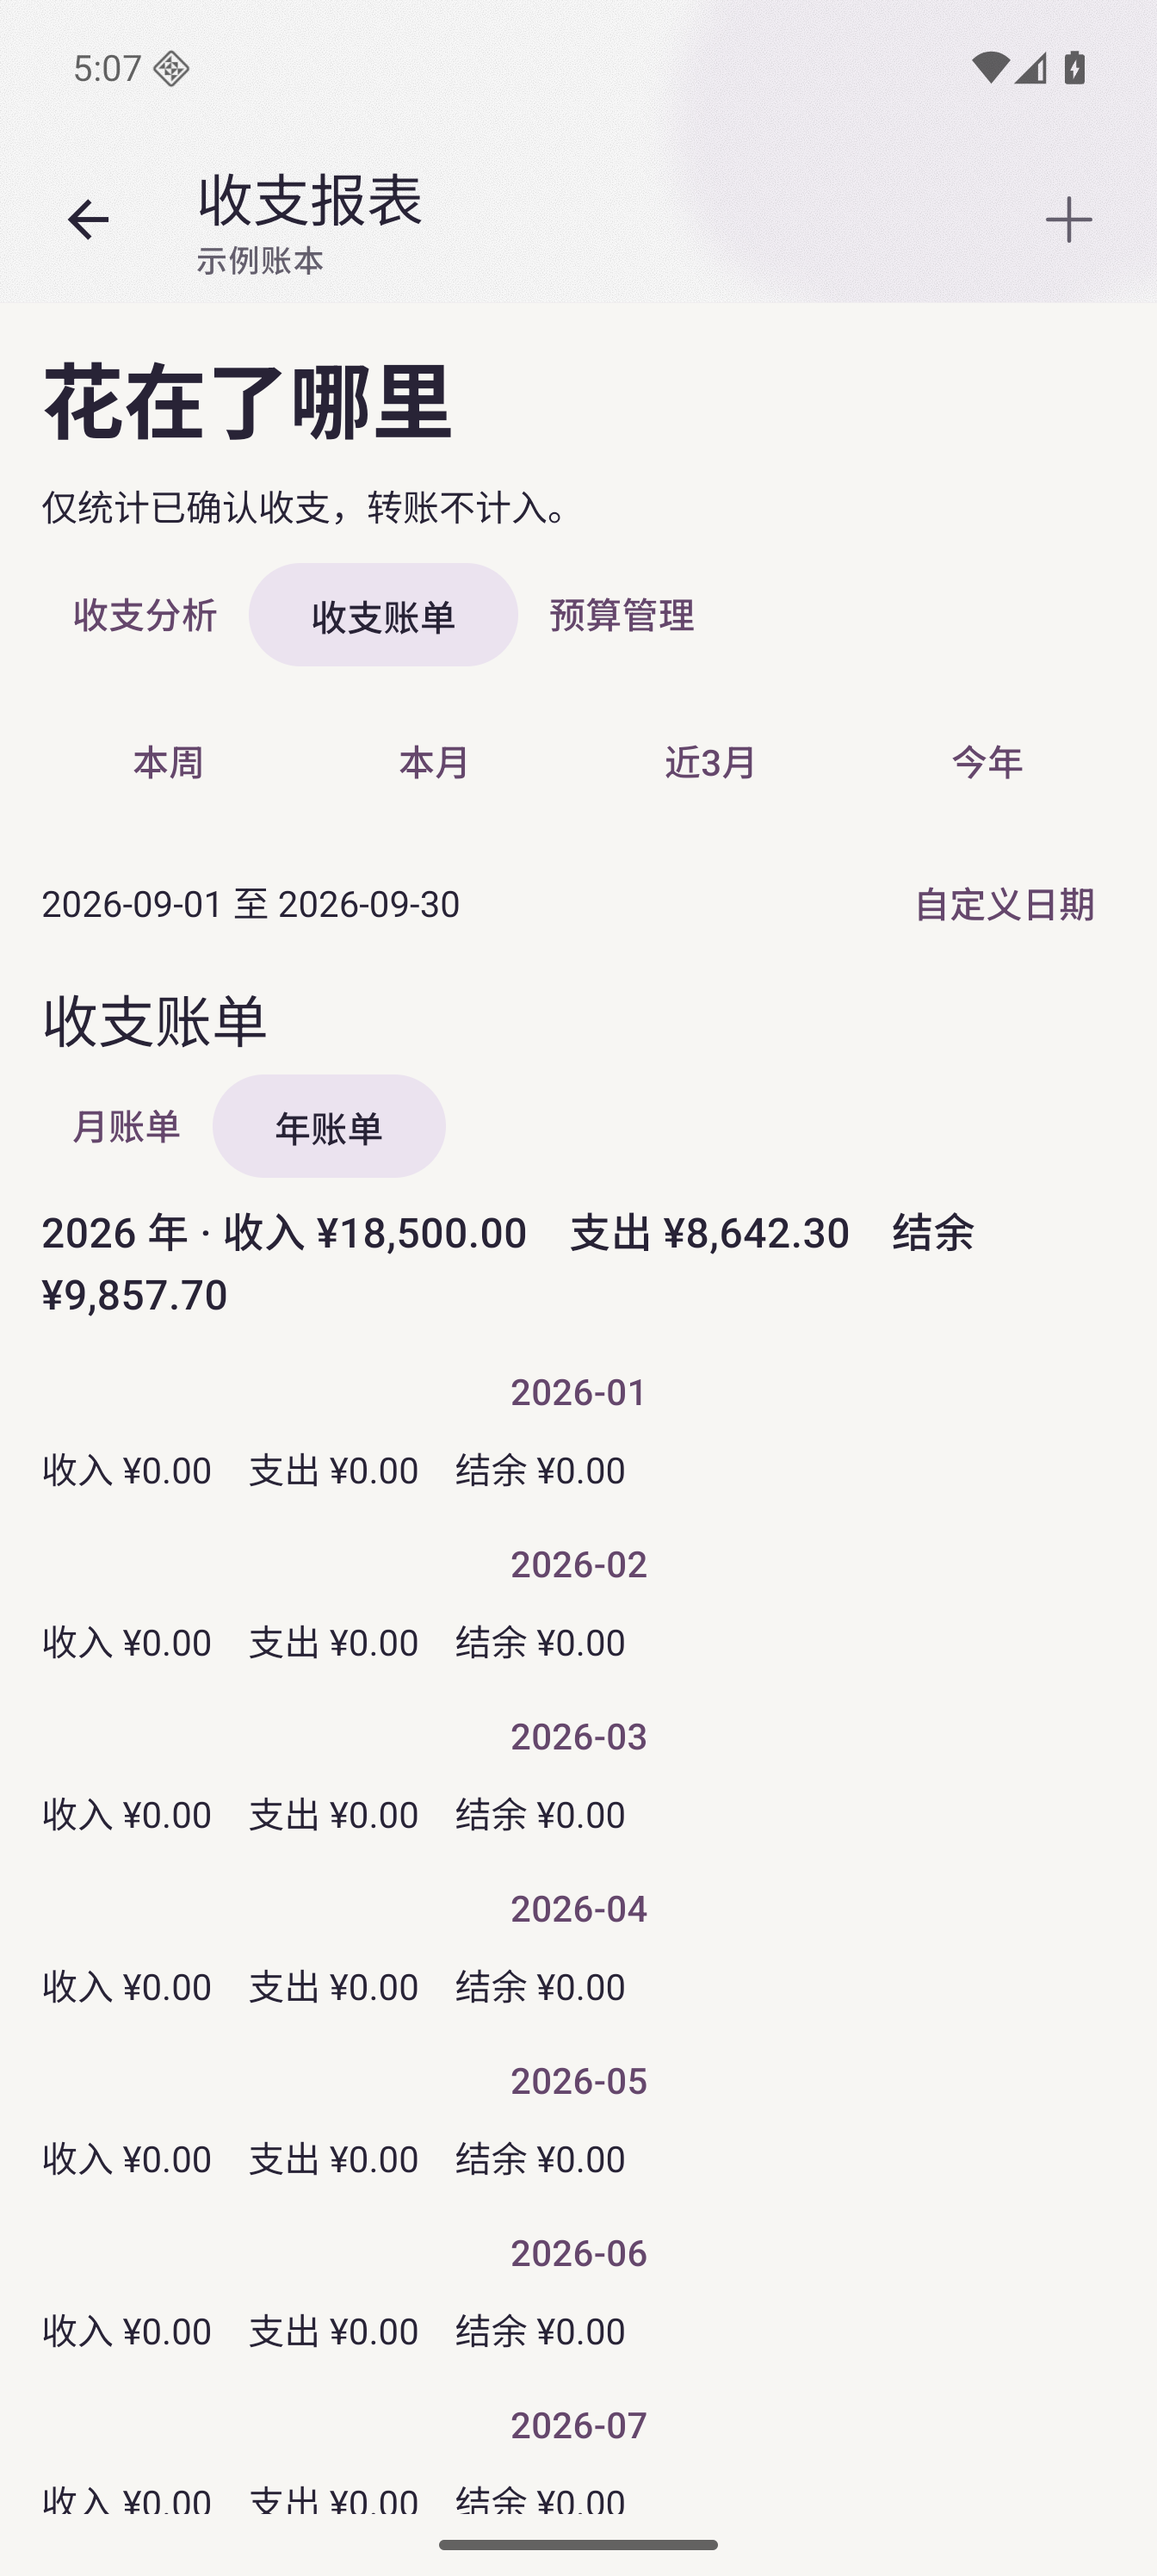
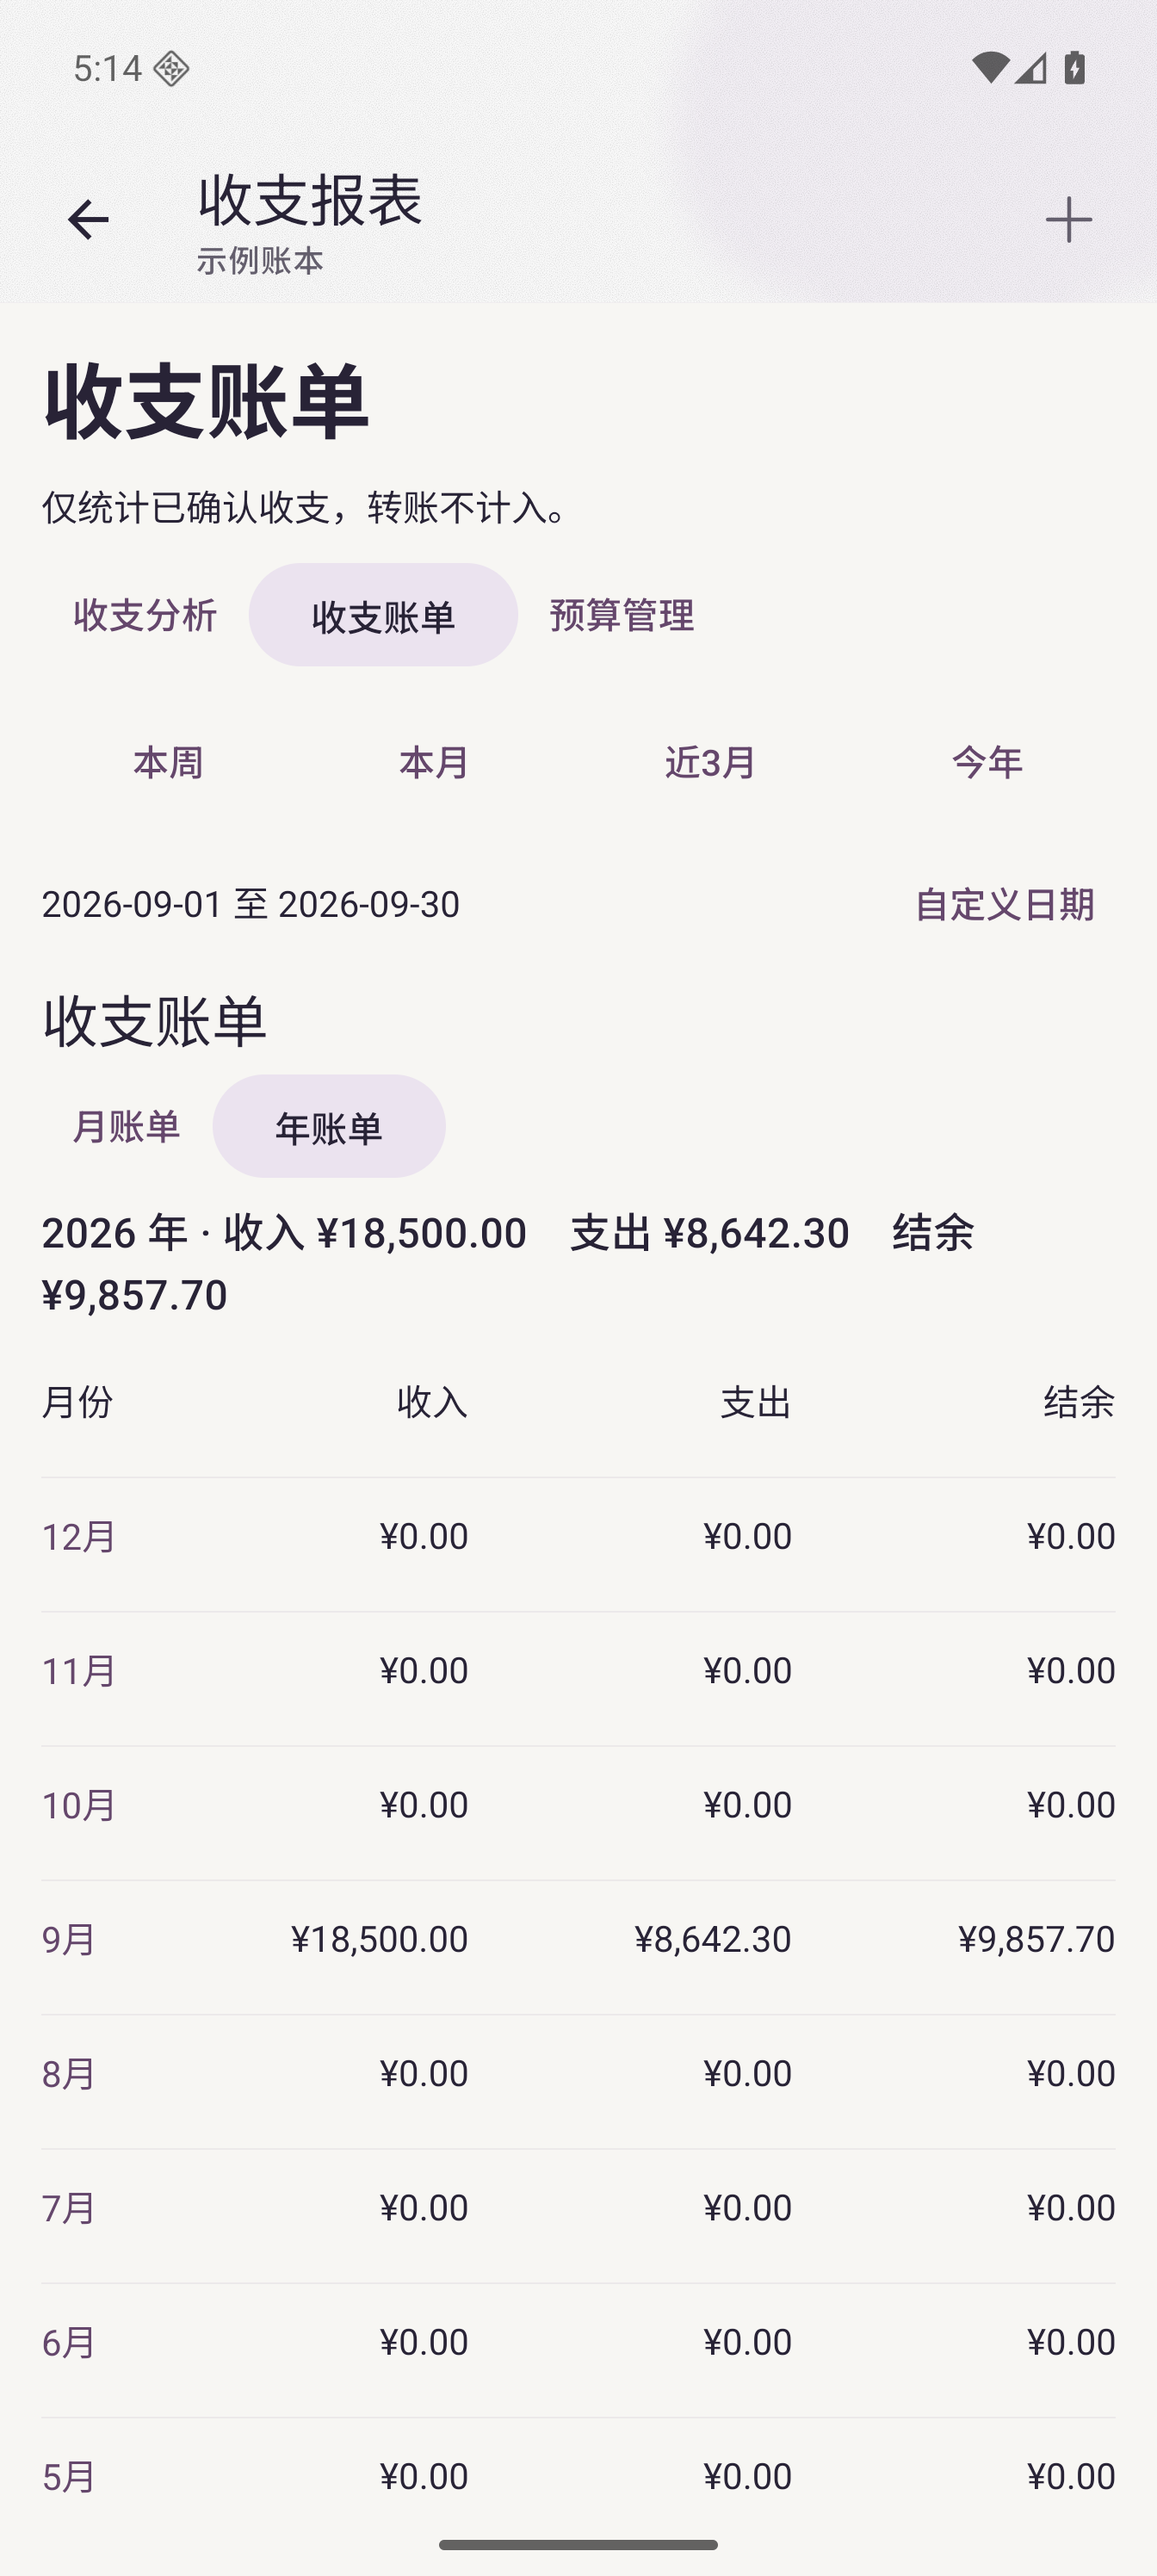
verify compact annual statements on the large-screen emulator

diff --git a/tests/mobile/reimbursement-report-native.test.tsx b/tests/mobile/reimbursement-report-native.test.tsx
@@ -25,6 +25,7 @@ import { ReportsScreen } from "../../apps/mobile/src/screens/ReportsScreen";
 import { EntryEditor } from "../../apps/mobile/src/screens/EntryEditor";
 const { client } = vi.hoisted(() => ({ client: { request: vi.fn() } }));
 vi.mock("react-native", () => ({
+  StyleSheet: { create: <T,>(styles: T) => styles, hairlineWidth: 1 },
   View: ({ children }: { children: ReactNode }) => <div>{children}</div>,
 }));
 vi.mock("react-native-paper", () => ({

diff --git a/tests/mobile/ui-layout-reports-privacy.test.tsx b/tests/mobile/ui-layout-reports-privacy.test.tsx
@@ -6,6 +6,7 @@ import { createDemoLedger } from "@hamster-ledger/fixtures";
 import { DEFAULT_PREFERENCES, type Ledger } from "@hamster-ledger/core";
 import { ReportsScreen } from "../../apps/mobile/src/screens/ReportsScreen";
 vi.mock("react-native", () => ({
+  StyleSheet: { create: <T,>(styles: T) => styles, hairlineWidth: 1 },
   View: ({ children }: { children: ReactNode }) => <div>{children}</div>,
 }));
 vi.mock("react-native-paper", () => ({
